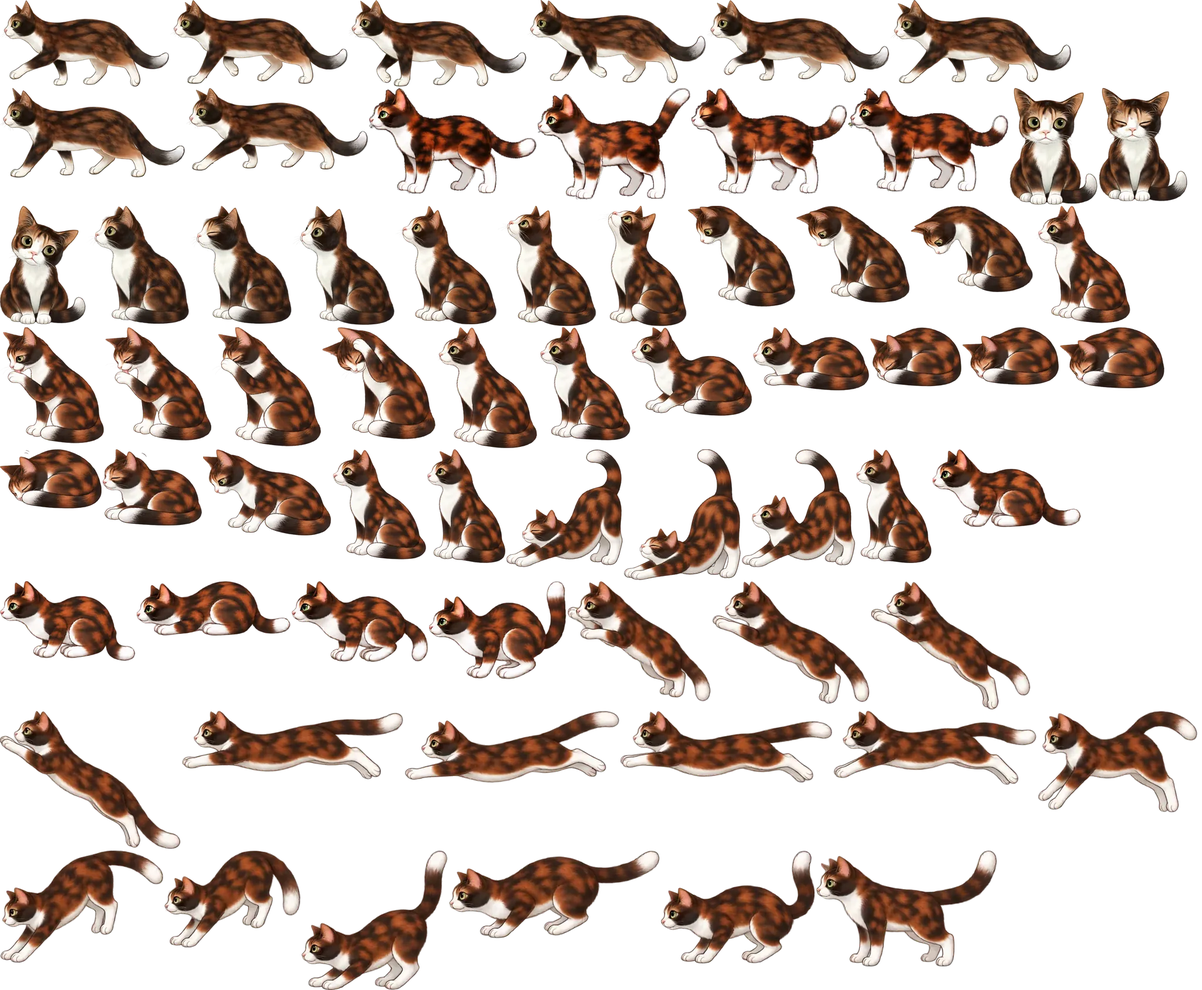
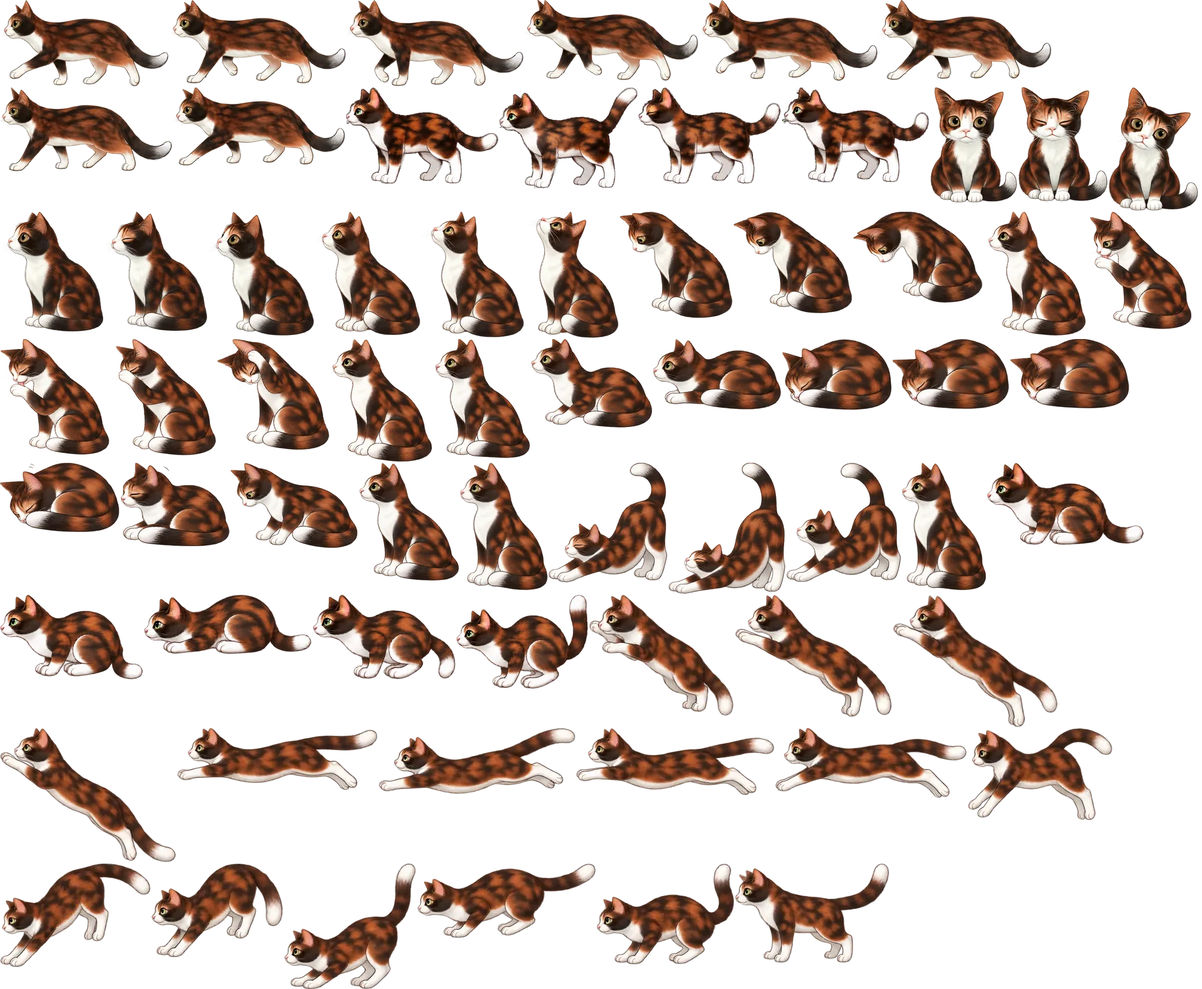
Dungeon v2.22.0
Plot colours for any colour, garden map, plot boxes lean and wiggle, Recently planted fills the gap, minified release, teddy redrawn, Booster bigger/slower/one colour.

diff --git a/assets/js/site.js b/assets/js/site.js
@@ -38,6 +38,11 @@
         fig.style.setProperty('--tilt', (t * imgMax).toFixed(2) + 'deg');
       });
     });
+    // The boxes inside a plot (the lists, the Library): each leans its own fixed way, a little less than a card
+    root.querySelectorAll('.plot-page').forEach(function (el) {
+      var t = (hash('box:' + (el.getAttribute('data-slug') || '') + (el.querySelector('.plot-page-title') || el).textContent.trim()) % 2001) / 1000 - 1;
+      el.style.setProperty('--pt', (maxTilt > 0 ? t * Math.min(maxTilt, 5) * 0.6 : 0).toFixed(2) + 'deg');
+    });
     root.querySelectorAll('.card[data-key], .post-panel[data-key]').forEach(function (el) {
       var h = hash(el.getAttribute('data-key') || '');
       // A colour tag on the post (e.g. #mint) fixes the colour; otherwise it comes from the slug.
@@ -3038,37 +3043,27 @@
   // and opens a small card with its title and a line of it. The card goes when you move off the node; the node opens it.
   // (On a phone: the first tap shows the card, the next tap opens the link.) No instructions: it is a map.
   function smallImg(u) { return u && /\/content\/images\//.test(u) && !/\/size\//.test(u) ? u.replace('/content/images/', '/content/images/size/w200/') : (u || ''); }
-  // short vines, leaves and flowers round a node of radius r at (x, y)
-  function bloomAround(x, y, r, seedKey) {
-    var out = '', k = hashOf(seedKey);
-    for (var i = 0; i < 3; i++) {
-      var a0 = (k % 628) / 100 + i * 2.09, a1 = a0 + 1.5, p0 = [x + Math.cos(a0) * (r + 1), y + Math.sin(a0) * (r + 1)], p1 = [x + Math.cos(a1) * (r + 9), y + Math.sin(a1) * (r + 9)];
-      var w = wildVine(p0[0], p0[1], p1[0], p1[1], seedKey + i, 0.9, 2), d = (i * 0.1).toFixed(2) + 's';
-      out += '<path class="pm-vn" pathLength="1" style="animation-delay:' + d + '" d="' + w.d + '"/><g class="pm-lv" style="animation-delay:' + (0.3 + i * 0.1).toFixed(2) + 's">' + w.leaves + w.curl + '</g>' +
-        '<g class="pm-fl" style="animation-delay:' + (0.5 + i * 0.1).toFixed(2) + 's">' + gflower(p1[0], p1[1], 4.6 + (k >> i & 1), FLOWERS[(k + i * 2) % FLOWERS.length]) + '</g>';
-    }
-    return '<g class="pm-bloom">' + out + '</g>';
-  }
   function postMap(slot, self, groups, L) {
     var nb = [], seen = {};
     groups.forEach(function (g) { g.items.forEach(function (x) { if (x.u && !seen[x.u] && nb.length < 12) { seen[x.u] = 1; nb.push({ t: x.t, u: x.u, g: x.g || 'seedling', i: x.i, x: x.x, kind: g.kind, label: g.label }); } }); });
     if (!nb.length) return;
     var stageOf = function (g) { return (L.stages && L.stages[g]) || g; };
-    var W = Math.max(300, Math.min(640, slot.clientWidth || 560)), H = nb.length <= 2 ? 190 : nb.length <= 5 ? 220 : 270, cx = W / 2, cy = H / 2, rx = W / 2 - 40, ry = H / 2 - 34, s = '', dots = '', defs = '';
+    var pic0 = !!self.im, CR = pic0 ? 19 : 14, W = Math.max(300, Math.min(640, slot.clientWidth || 560)), H = nb.length <= 2 ? 190 : nb.length <= 5 ? 220 : 270, cx = W / 2, cy = H / 2, rx = W / 2 - 40, ry = H / 2 - 34, s = '', dots = '', defs = '';
     nb.forEach(function (n, i) {
       var a = -Math.PI / 2 + i * 2 * Math.PI / nb.length, x = cx + Math.cos(a) * rx, y = cy + Math.sin(a) * ry, v = wildVine(cx, cy, x, y, 'pm' + self.s + '>' + n.u, 1, n.kind === 'rel' ? 0 : 2), pic = !!n.i, R = pic ? 17 : (n.g === 'post' ? 8 : 9), sq = n.g === 'post';
-      s += n.kind === 'rel' ? '<path class="lm-rel" d="' + v.d + '"/>' : '<g class="lm-vine"><path d="' + v.d + '"/>' + v.leaves + v.curl + '</g>';
+      var dist = Math.sqrt((x - cx) * (x - cx) + (y - cy) * (y - cy)) || 1;
+      // the whole connection is dotted; a short solid vine grows from just outside the centre along the same curve
+      s += '<path class="lm-rel" d="' + v.d + '"/><path class="pm-sv" pathLength="1" style="--f0:' + ((CR + 3) / dist).toFixed(3) + ';--l:0.2;animation-delay:' + (i * 0.06).toFixed(2) + 's" d="' + v.d + '"/>';
       var shape = function (cls, extra) { return sq ? '<rect class="' + cls + '" ' + extra + ' x="' + (x - R).toFixed(1) + '" y="' + (y - R).toFixed(1) + '" width="' + R * 2 + '" height="' + R * 2 + '" rx="' + (pic ? 7 : 3) + '"/>' : '<circle class="' + cls + '" ' + extra + ' cx="' + x.toFixed(1) + '" cy="' + y.toFixed(1) + '" r="' + R + '"/>'; };
       if (pic) defs += '<clipPath id="pmc' + i + '">' + (sq ? '<rect x="' + (x - R).toFixed(1) + '" y="' + (y - R).toFixed(1) + '" width="' + R * 2 + '" height="' + R * 2 + '" rx="7"/>' : '<circle cx="' + x.toFixed(1) + '" cy="' + y.toFixed(1) + '" r="' + R + '"/>') + '</clipPath>';
       dots += '<a class="pm-dot" href="' + esc(n.u) + '" data-i="' + i + '" aria-label="' + esc(n.t + ' (' + n.label + ', ' + stageOf(n.g) + ')') + '"><circle class="pm-hit" cx="' + x.toFixed(1) + '" cy="' + y.toFixed(1) + '" r="' + (R + 9) + '"/>' +
-        shape('pm-v', 'data-g="' + esc(n.g) + '"') + (pic ? '<image href="' + esc(smallImg(n.i)) + '" x="' + (x - R).toFixed(1) + '" y="' + (y - R).toFixed(1) + '" width="' + R * 2 + '" height="' + R * 2 + '" preserveAspectRatio="xMidYMid slice" clip-path="url(#pmc' + i + ')"/>' + shape('pm-edge', 'data-g="' + esc(n.g) + '"') : '') +
-        bloomAround(x, y, R, n.u) + '</a>';
+        shape('pm-v', 'data-g="' + esc(n.g) + '"') + (pic ? '<image href="' + esc(smallImg(n.i)) + '" x="' + (x - R).toFixed(1) + '" y="' + (y - R).toFixed(1) + '" width="' + R * 2 + '" height="' + R * 2 + '" preserveAspectRatio="xMidYMid slice" clip-path="url(#pmc' + i + ')"/>' + shape('pm-edge', 'data-g="' + esc(n.g) + '"') : '') + '</a>';
     });
-    dots += '<circle class="pm-ring" cx="' + cx + '" cy="' + cy + '" r="20"/><circle class="pm-v pm-self" data-g="' + esc(self.g || 'post') + '" cx="' + cx + '" cy="' + cy + '" r="14"><title>' + esc(L.thisPost || 'This post') + '</title></circle>';
-    var present = {}; nb.forEach(function (n) { present[n.g] = 1; }); present[self.g || 'post'] = 1;
-    var key = ['seedling', 'growing', 'evergreen', 'post'].filter(function (g) { return present[g]; }).map(function (g) { return '<span class="pm-key-i"><i class="pm-key-dot" data-g="' + g + '"></i>' + esc(stageOf(g)) + '</span>'; }).join('');
+    var selfSq = (self.g || 'post') === 'post', selfPath = function (r, extra) { return selfSq ? '<rect ' + extra + ' x="' + (cx - r) + '" y="' + (cy - r) + '" width="' + r * 2 + '" height="' + r * 2 + '" rx="' + (r > 14 ? 7 : 3) + '"/>' : '<circle ' + extra + ' cx="' + cx + '" cy="' + cy + '" r="' + r + '"/>'; };
+    if (pic0) defs += '<clipPath id="pmcs">' + selfPath(CR, '') + '</clipPath>';
+    dots += '<circle class="pm-ring" cx="' + cx + '" cy="' + cy + '" r="' + (CR + 6) + '"/>' + (pic0 ? selfPath(CR, 'class="pm-v pm-self" data-g="' + esc(self.g || 'post') + '"') + '<image href="' + esc(smallImg(self.im)) + '" x="' + (cx - CR) + '" y="' + (cy - CR) + '" width="' + CR * 2 + '" height="' + CR * 2 + '" preserveAspectRatio="xMidYMid slice" clip-path="url(#pmcs)"/>' + selfPath(CR, 'class="pm-edge" data-g="' + esc(self.g || 'post') + '"') : '<circle class="pm-v pm-self" data-g="' + esc(self.g || 'post') + '" cx="' + cx + '" cy="' + cy + '" r="14"/>');
     slot.innerHTML = '<div class="pm"><svg viewBox="0 0 ' + W + ' ' + H + '" role="group" aria-label="' + esc(L.map || '') + '"><defs>' + defs + '</defs>' + s + dots + '</svg>' +
-      '<div class="pm-card" aria-hidden="true" hidden><span class="pm-card-k"></span><span class="pm-card-t"></span><span class="pm-card-x"></span></div></div><p class="pm-key">' + key + '</p>';
+      '<div class="pm-card" aria-hidden="true" hidden><span class="pm-card-k"></span><span class="pm-card-t"></span><span class="pm-card-x"></span></div></div>';
     var wrap = slot.querySelector('.pm'), svg = wrap.querySelector('svg'), card = wrap.querySelector('.pm-card'), els = [].slice.call(wrap.querySelectorAll('.pm-dot')), cur = -1, touch = false;
     var k = card.querySelector('.pm-card-k'), t = card.querySelector('.pm-card-t'), x = card.querySelector('.pm-card-x');
     var close = function () { cur = -1; card.hidden = true; els.forEach(function (e) { e.classList.remove('is-on'); }); };
@@ -3078,8 +3073,17 @@
       var n = nb[i]; cur = i; k.textContent = n.label + ' · ' + stageOf(n.g); t.textContent = n.t;
       var ex = String(n.x || '').trim(); x.textContent = ex.length > 120 ? ex.slice(0, 119).replace(/\s+\S*$/, '') + '…' : ex;
       card.hidden = false;
-      var B = wrap.getBoundingClientRect(), D = els[i].querySelector('.pm-v').getBoundingClientRect(), up = D.top + D.height / 2 - B.top > B.height / 2, left = D.left + D.width / 2 - B.left > B.width / 2;
-      card.classList.toggle('is-top', up); card.classList.toggle('is-left', left); // the half of the map the node is not in
+      // beside its own node, on the side facing the centre, and kept inside the map
+      var B = wrap.getBoundingClientRect(), D = els[i].querySelector('.pm-v').getBoundingClientRect(), cw = card.offsetWidth, ch = card.offsetHeight, G = 10,
+        mx = D.left + D.width / 2 - B.left, my = D.top + D.height / 2 - B.top, onLeft = mx < B.width / 2, below = my > B.height / 2, px, py;
+      var roomX = onLeft ? B.width - (D.right - B.left) - G : D.left - B.left - G;
+      if (roomX >= cw) { px = onLeft ? D.right - B.left + G : D.left - B.left - G - cw; py = my - ch / 2; }
+      else { px = mx - cw / 2; py = below ? D.top - B.top - G - ch : D.bottom - B.top + G; }
+      px = Math.max(4, Math.min(B.width - cw - 4, px)); py = Math.max(4, Math.min(B.height - ch - 4, py));
+      var sc = B.width / W, hx = cx * sc, hy = cy * sc, hr = (CR + 8) * sc;
+      // never over the centre picture: if it would be, it hangs below its own node instead (it may reach past the map's lower edge)
+      if (px < hx + hr && px + cw > hx - hr && py < hy + hr && py + ch > hy - hr) { py = Math.max(hy + hr + 4, D.bottom - B.top + G); px = Math.max(4, Math.min(B.width - cw - 4, onLeft ? D.left - B.left : D.right - B.left - cw)); }
+      card.style.left = px.toFixed(0) + 'px'; card.style.top = py.toFixed(0) + 'px';
     };
     els.forEach(function (a, i) {
       a.addEventListener('pointerenter', function (e) { if (e.pointerType === 'mouse') open(i); });
@@ -3600,13 +3604,22 @@
     if (!grid || !window.matchMedia || !window.ResizeObserver) return;
     var cards = [].filter.call(grid.children, function (c) { return c.classList && c.classList.contains('plot'); });
     if (cards.length < 3) return;
+    // "Recently planted" counts as one more item on a wide screen, so it fills the gap under the shorter plot. It is moved
+    // into the grid only while the screen is wide; below that it goes back to where the page puts it, before the /garden card.
+    var tended = document.querySelector('.plots-tended'), home = tended && tended.parentNode, homeNext = tended && tended.nextSibling;
     var wide = window.matchMedia('(min-width: 901px)'), UNIT = 8, queued = 0;
     function lay() {
       queued = 0;
-      if (!wide.matches) { grid.classList.remove('is-packed'); cards.forEach(function (c) { c.style.gridColumn = ''; c.style.gridRow = ''; }); return; }
+      var items = cards.slice();
+      if (!wide.matches) {
+        grid.classList.remove('is-packed'); items.concat(tended ? [tended] : []).forEach(function (c) { c.style.gridColumn = ''; c.style.gridRow = ''; });
+        if (tended && tended.parentNode === grid) home.insertBefore(tended, homeNext && homeNext.parentNode === home ? homeNext : null);
+        return;
+      }
+      if (tended) { if (tended.parentNode !== grid) grid.appendChild(tended); items.push(tended); }
       grid.classList.add('is-packed');
       var gap = (parseFloat(getComputedStyle(document.documentElement).fontSize) || 16) * 2.25, used = [0, 0];
-      cards.forEach(function (c) {
+      items.forEach(function (c) {
         var col = used[0] <= used[1] ? 0 : 1, column = String(col + 1);
         if (c.style.gridColumn !== column) c.style.gridColumn = column;
         var span = Math.max(1, Math.ceil((c.offsetHeight + gap) / UNIT)), row = (used[col] + 1) + ' / span ' + span;
@@ -3615,7 +3628,7 @@
       });
     }
     var ask = function () { if (!queued) queued = window.requestAnimationFrame(lay); };
-    var watcher = new ResizeObserver(ask); cards.forEach(function (c) { watcher.observe(c); });
+    var watcher = new ResizeObserver(ask); cards.concat(tended ? [tended] : []).forEach(function (c) { watcher.observe(c); });
     if (wide.addEventListener) wide.addEventListener('change', ask);
     lay();
   }

diff --git a/assets/css/screen.css b/assets/css/screen.css
@@ -169,15 +169,15 @@ main { min-height: 100vh; min-height: 100svh; }
 .card[data-hue="cobalt"], .post-panel[data-hue="cobalt"] { --card: #2349c9; --card-hi: #2b52d8; }
 .card[data-hue="emerald"], .post-panel[data-hue="emerald"] { --card: #0b7d52; --card-hi: #0b8455; }
 .card[data-hue="ink"], .post-panel[data-hue="ink"] { --card: #2a2e37; --card-hi: #353a45; }
-:is(.card, .post-panel):is([data-hue="red"], [data-hue="cobalt"], [data-hue="emerald"], [data-hue="ink"]) {
+:is(.card, .post-panel):is([data-hue="red"], [data-hue="cobalt"], [data-hue="emerald"], [data-hue="ink"], [data-on="dark"]) {
     --on-card: #ffffff;
     --on-card-soft: rgba(255, 255, 255, 0.9);
     --on-card-meta: rgba(255, 255, 255, 0.82);
     --on-card-rule: rgba(255, 255, 255, 0.3);
 }
-:is(.card, .post-panel):is([data-hue="red"], [data-hue="cobalt"], [data-hue="emerald"], [data-hue="ink"]) .card-line { background: rgba(255, 255, 255, 0.35); }
-:is(.card, .post-panel):is([data-hue="red"], [data-hue="cobalt"], [data-hue="emerald"], [data-hue="ink"]) :is(code, pre) { background: rgba(255, 255, 255, 0.14); color: #fff; }
-:is(.card, .post-panel):is([data-hue="red"], [data-hue="cobalt"], [data-hue="emerald"], [data-hue="ink"]) a { text-decoration-color: rgba(255, 255, 255, 0.7); }
+:is(.card, .post-panel):is([data-hue="red"], [data-hue="cobalt"], [data-hue="emerald"], [data-hue="ink"], [data-on="dark"]) .card-line { background: rgba(255, 255, 255, 0.35); }
+:is(.card, .post-panel):is([data-hue="red"], [data-hue="cobalt"], [data-hue="emerald"], [data-hue="ink"], [data-on="dark"]) :is(code, pre) { background: rgba(255, 255, 255, 0.14); color: #fff; }
+:is(.card, .post-panel):is([data-hue="red"], [data-hue="cobalt"], [data-hue="emerald"], [data-hue="ink"], [data-on="dark"]) a { text-decoration-color: rgba(255, 255, 255, 0.7); }
 /* An ink card would disappear on the dark page: give it a faint outline there */
 html[data-scheme="dark"] .card[data-hue="ink"] { box-shadow: 0 0 0 1px rgba(255, 255, 255, 0.14), 0 12px 26px -20px rgba(0, 0, 0, 0.8); }
 @media (prefers-color-scheme: dark) {
@@ -1098,7 +1098,7 @@ body.has-everything .colophon-secondary { display: none; }
    seconds. Tapping the button again lists the latest names. Ink is red, or white on bold cards. */
 .stamp { --ink: #c42b3c; position: relative; display: inline-flex; }
 .card[data-hue="red"] .stamp, .card[data-hue="tangerine"] .stamp, .card[data-hue="sunflower"] .stamp,
-.card[data-hue="cobalt"] .stamp, .card[data-hue="emerald"] .stamp, .card[data-hue="ink"] .stamp { --ink: rgba(255, 255, 255, 0.92); }
+.card[data-hue="cobalt"] .stamp, .card[data-hue="emerald"] .stamp, .card[data-hue="ink"] .stamp, .card[data-on="dark"] .stamp { --ink: rgba(255, 255, 255, 0.92); }
 .stamp[hidden] { display: none; }
 .stamp-btn {
     display: inline-flex; align-items: center; justify-content: center; gap: 0.4rem; height: 2.4rem; min-width: 2.4rem; padding: 0 0.8rem;
@@ -1950,35 +1950,28 @@ html[data-scheme="dark"] .post-panel.is-garden { background-image: linear-gradie
 .pm-dot { cursor: pointer; outline: none; }
 .pm-hit { fill: transparent; }
 .pm-v { stroke: var(--ink); stroke-opacity: 0.6; stroke-width: 1.4; fill: #cfe86a; }
-.pm-v[data-g="growing"], .pm-key-dot[data-g="growing"] { fill: #4fc08a; background: #4fc08a; }
-.pm-v[data-g="evergreen"], .pm-key-dot[data-g="evergreen"] { fill: #1f6b4f; background: #1f6b4f; }
-.pm-v[data-g="post"], .pm-key-dot[data-g="post"] { fill: #fffdf7; background: #fffdf7; }
-.pm-key-dot[data-g="seedling"] { background: #cfe86a; }
+.pm-v[data-g="growing"] { fill: #4fc08a; }
+.pm-v[data-g="evergreen"] { fill: #1f6b4f; }
+.pm-v[data-g="post"] { fill: #fffdf7; }
 .pm-dot:hover .pm-v, .pm-dot.is-on .pm-v, .pm-dot:focus-visible .pm-v { stroke: #c42b3c; stroke-opacity: 1; stroke-width: 2.4; }
 .pm-self { stroke-opacity: 0.85; stroke-width: 2; }
 .pm-ring { fill: none; stroke: var(--ink); stroke-opacity: 0.35; stroke-width: 1.2; stroke-dasharray: 2 3; }
 .pm-edge { fill: none; stroke: rgba(23, 25, 30, 0.55); stroke-width: 2; }
 .pm-edge[data-g="seedling"] { stroke: #cfe86a; stroke-width: 3; } .pm-edge[data-g="growing"] { stroke: #4fc08a; stroke-width: 3; } .pm-edge[data-g="evergreen"] { stroke: #1f6b4f; stroke-width: 3; }
 .pm-dot:hover .pm-edge, .pm-dot.is-on .pm-edge, .pm-dot:focus-visible .pm-edge { stroke: #c42b3c; }
-.pm-bloom { display: none; pointer-events: none; }
-.pm-dot.is-on .pm-bloom { display: inline; }
+.pm-sv { fill: none; stroke: #3f8a3a; stroke-width: 2.2; stroke-linecap: round; stroke-dasharray: 0 var(--f0) var(--l) 2; animation: pm-sv 0.8s ease-out backwards; pointer-events: none; }
+@keyframes pm-sv { from { stroke-dasharray: 0 var(--f0) 0 2; } }
 .pm-vn { fill: none; stroke: #3f8a3a; stroke-width: 1.8; stroke-linecap: round; stroke-dasharray: 1; stroke-dashoffset: 1; animation: pm-grow 0.7s ease-out forwards; }
 .pm-lv, .pm-fl { transform-box: fill-box; transform-origin: center; animation: pm-pop 0.45s cubic-bezier(.3, 1.5, .5, 1) backwards; }
 @keyframes pm-grow { to { stroke-dashoffset: 0; } }
 @keyframes pm-pop { from { transform: scale(0); opacity: 0; } }
-@media (prefers-reduced-motion: reduce) { .pm-vn, .pm-lv, .pm-fl { animation: none; } .pm-vn { stroke-dashoffset: 0; } }
+@media (prefers-reduced-motion: reduce) { .pm-vn, .pm-lv, .pm-fl, .pm-sv { animation: none; } .pm-vn { stroke-dashoffset: 0; } }
 /* The card is fixed paper and ink, so it reads the same on any panel in light or dark; it is only a label, so it takes no pointer */
-.pm-card { position: absolute; z-index: 5; bottom: 0.4rem; right: 0.4rem; display: flex; flex-direction: column; gap: 0.25rem; box-sizing: border-box; width: min(19rem, calc(100% - 0.8rem)); padding: 0.7rem 0.85rem; border-radius: 10px; background: #fffdf7; color: #17191e; box-shadow: 0 10px 24px -10px rgba(12, 13, 16, 0.55), inset 0 0 0 1px rgba(23, 25, 30, 0.14); pointer-events: none; }
-.pm-card.is-top { bottom: auto; top: 0.4rem; }
-.pm-card.is-left { right: auto; left: 0.4rem; }
+.pm-card { position: absolute; z-index: 5; top: 0; left: 0; display: flex; flex-direction: column; gap: 0.25rem; box-sizing: border-box; width: min(17rem, calc(100% - 0.8rem)); padding: 0.7rem 0.85rem; border-radius: 10px; background: #fffdf7; color: #17191e; box-shadow: 0 10px 24px -10px rgba(12, 13, 16, 0.55), inset 0 0 0 1px rgba(23, 25, 30, 0.14); pointer-events: none; }
 .pm-card[hidden] { display: none; }
 .pm-card-k { font: 0.66rem/1.2 var(--mono); letter-spacing: 0.08em; text-transform: uppercase; color: #5e636c; }
 .pm-card-t { font-weight: 600; line-height: 1.25; }
 .pm-card-x { font-size: 0.8rem; line-height: 1.35; color: #4a4e55; }
-.pm-key { display: flex; flex-wrap: wrap; align-items: center; gap: 0.3rem 1rem; margin: 0.5rem 0 0.9rem; font: 0.72rem/1.3 var(--mono); color: var(--graphite); }
-.pm-key-i { display: inline-flex; align-items: center; gap: 0.4rem; }
-.pm-key-dot { display: inline-block; width: 0.7rem; height: 0.7rem; border-radius: 50%; box-shadow: inset 0 0 0 1.3px color-mix(in srgb, var(--ink) 60%, transparent); }
-.pm-key-dot[data-g="post"] { border-radius: 2px; }
 .pm-list > summary { cursor: pointer; font: 0.75rem/1.2 var(--mono); color: var(--graphite); padding: 0.4rem 0; }
 .pm-list[open] > summary { margin-bottom: 0.7rem; }
 
@@ -2005,7 +1998,7 @@ html[data-scheme="dark"] .post-panel.is-garden { background-image: linear-gradie
 .rated--small .rated-stars { font-size: 0.8rem; }
 .rated--small .rated-num { font-size: 0.6rem; }
 /* pastel cards and panels carry dark ink in light and dark mode alike; on the dark and red ones the stamp turns white */
-:is(.card, .post-panel):is([data-hue="red"], [data-hue="cobalt"], [data-hue="emerald"], [data-hue="ink"]) .rated { --stamp: rgba(255, 255, 255, 0.92); }
+:is(.card, .post-panel):is([data-hue="red"], [data-hue="cobalt"], [data-hue="emerald"], [data-hue="ink"], [data-on="dark"]) .rated { --stamp: rgba(255, 255, 255, 0.92); }
 @media (max-width: 560px) { .panel-head > .rated { float: none; margin: 0 0 0.9rem; } }
 
 .rate { margin-top: 1.6rem; padding: 1.1rem 1.2rem 1rem; border-radius: 12px; color: var(--on-card, var(--ink)); background: color-mix(in srgb, var(--on-card, var(--ink)) 7%, transparent); }
@@ -2020,7 +2013,7 @@ html[data-scheme="dark"] .post-panel.is-garden { background-image: linear-gradie
 .rate-fill { position: absolute; left: 0; top: 0.2rem; width: calc(var(--v) * 20%); overflow: hidden; white-space: nowrap; color: #e8a33a; pointer-events: none; }
 .rate-fill::before { content: "\2605\2605\2605\2605\2605"; }
 .rate-stars:focus-visible { outline: 2px solid var(--on-card, var(--ink)); outline-offset: 4px; }
-.post-panel:is([data-hue="red"], [data-hue="tangerine"], [data-hue="sunflower"], [data-hue="cobalt"], [data-hue="emerald"], [data-hue="ink"]) .rate-fill { color: var(--on-card); } /* amber would vanish on the bold colours */
+.post-panel:is([data-hue="red"], [data-hue="tangerine"], [data-hue="sunflower"], [data-hue="cobalt"], [data-hue="emerald"], [data-hue="ink"], [data-on="dark"]) .rate-fill { color: var(--on-card); } /* amber would vanish on the bold colours */
 .rate.is-busy .rate-stars { opacity: 0.45; cursor: progress; }
 .rate-msg { margin: 0; font: 0.8rem/1.4 var(--mono); color: inherit; }
 .rate-msg.is-error { font-weight: 600; }
@@ -2143,6 +2136,7 @@ body[data-tilt="0"] .plots-hero .statement-text { transform: none; }
 }
 /* Stacked by empty space (set by the script on wide screens): two columns, each plot placed under the shorter one */
 .plots-grid.is-packed { grid-template-columns: minmax(0, 7fr) minmax(0, 5fr); grid-auto-rows: 8px; row-gap: 0; }
+.plots-grid.is-packed > .plots-tended { padding: 0 0.5rem; }
 .plot { grid-column: span 6; padding: 1.2rem 1.3rem 1.1rem; gap: 0.7rem; transform: rotate(calc(var(--tilt) * 0.35)); }
 /* Hover: the plot straightens and lifts like every other card; its etching darkens and drifts closer */
 .plot { overflow: hidden; }
@@ -2257,6 +2251,15 @@ body[data-tilt="0"] .plots-hero .statement-text { transform: none; }
 .plot-page.is-watchlist .plot-page-line:empty { display: none; }
 .plot-page.is-watchlist { flex-wrap: nowrap; align-items: center; }
 .plot-page.is-watchlist .plot-page-text { flex: 1 1 auto; }
+.plot-page.is-watchlist { transform: rotate(var(--pt, 0deg)); }
+@keyframes plot-box-wiggle {
+    0% { transform: rotate(var(--pt, 0deg)); } 28% { transform: rotate(calc(var(--pt, 0deg) + 1.6deg)); }
+    52% { transform: rotate(calc(var(--pt, 0deg) - 1deg)); } 76% { transform: rotate(calc(var(--pt, 0deg) + 0.5deg)); }
+    100% { transform: rotate(var(--pt, 0deg)); } }
+/* Mouse only, and not while the picture inside is doing its own wiggle */
+@media (hover: hover) and (pointer: fine) and (prefers-reduced-motion: no-preference) {
+    .plot-page.is-watchlist:hover:not(:has(.plot-page-shot:hover)) { animation: plot-box-wiggle 460ms ease-out; }
+}
 /* The featured item: its picture leans, overlaps the box's top edge, and has its own slight zoom and wiggle when pointed at */
 .plot-pages:has(.plot-page-shot) { margin-top: 1.6rem; }
 .plot-page-feature { flex: none; display: flex; flex-direction: column; align-items: center; gap: 0.5rem; }

diff --git a/assets/js/library-cat.js b/assets/js/library-cat.js
@@ -63,12 +63,12 @@
       else if (me.loop) { if (me.ti >= me.to + 1) me.ti = me.from + (me.ti - me.to - 1); }
       else if (me.ti >= me.to) { me.ti = me.to; me.playing = false; var r = me.resolve; me.resolve = null; if (r) r(); }
     }
-    if (me.xf) { me.xf.a -= dt / .18; if (me.xf.a <= 0) me.xf = null; }
+    if (me.xf) { me.xf.a -= dt / .45; if (me.xf.a <= 0) me.xf = null; }
     me.draw();
   };
   Cat.prototype.draw = function () {
     var me = this, c = me.ctx, n = me.m.clips[me.clip].length, i0 = clamp(Math.floor(me.ti), 0, n - 1), b = 0, i1 = i0;
-    if (me.playing) { i1 = i0 + 1; if (me.loop && !me.ping) { if (i1 > me.to) i1 = me.from; } else if (i1 > me.to) i1 = i0; b = i1 === i0 ? 0 : smooth((me.ti - Math.floor(me.ti) - .55) / .45); }
+    if (me.playing) { i1 = i0 + 1; if (me.loop && !me.ping) { if (i1 > me.to) i1 = me.from; } else if (i1 > me.to) i1 = i0; b = i1 === i0 ? 0 : smooth((me.ti - Math.floor(me.ti) - .15) / .85); }
     c.setTransform(1, 0, 0, 1, 0, 0); c.clearRect(0, 0, me.canvas.width, me.canvas.height);
     function put(f, a) { if (a <= .003) return; c.save(); c.globalAlpha = a * me.opacity; c.setTransform(me.res, 0, 0, me.res, 0, 0); c.translate(me.cw / 2, me.ch - 3); if (me.dir > 0) c.scale(-1, 1);
       c.drawImage(me.img, f[0], f[1], f[2], f[3], -f[4] * me.k, -(f[5] + 1) * me.k, f[2] * me.k, f[3] * me.k); c.restore(); }
@@ -116,7 +116,7 @@
       P = []; spot = null; phone = typeof matchMedia === 'function' && matchMedia('(max-width: 899px)').matches;
       shelves.forEach(function (b) {
         var t = JSON.parse(b.dataset.top), r = b.getBoundingClientRect(), iw = +b.dataset.iw; if (!iw || !r.width) return;
-        ppu = r.width / iw; cat.k = ppu * .63; len = 300 * cat.k;
+        ppu = r.width / iw; cat.k = ppu * .85; len = 300 * cat.k;
         var ox = r.left - hr.left, oy = r.top - hr.top, m = .46 * len, x0 = ox + t.x0 * r.width + m, x1 = ox + t.x1 * r.width - m;
         if (x1 < x0) x0 = x1 = (x0 + x1) / 2;
         P.push({ shelf: +b.dataset.shelf, b: b, x0: x0, x1: x1, y: oy + t.y * r.height + 5 * ppu });
@@ -134,27 +134,27 @@
     async function holdBlink(sec, clip, base, blink) { cat.hold(clip, base); var rem = sec; while (rem > 0) { var s = Math.min(rem, rr(1.6, 3.6)); await W(s); rem -= s; if (rem > .3) { cat.hold(clip, blink); await W(.15); cat.hold(clip, base); } } }
     async function sit(s) { cat.hold('sit_side', 0); await holdBlink(s, 'sit_side', 0, 1); }
     async function look(s) { cat.hold('sit_front', 0); await holdBlink(s, 'sit_front', 0, 1); }
-    async function lookUp(s) { cat.hold('sit_side', 0); await W(.2); await P_(cat.play('look_up', { fps: 5 })); await W(s); await P_(cat.play('look_up', { fps: 5, from: 0, to: 2, at: 2 })); cat.hold('sit_side', 0); }
-    async function groom(times) { cat.hold('groom', 0); await W(.5); for (var i = 0; i < times; i++) await P_(cat.play('groom', { fps: 3.2, from: 0, to: 5 })); }
+    async function lookUp(s) { cat.hold('sit_side', 0); await W(.2); await P_(cat.play('look_up', { fps: 3.5 })); await W(s); await P_(cat.play('look_up', { fps: 3.5, from: 0, to: 2, at: 2 })); cat.hold('sit_side', 0); }
+    async function groom(times) { cat.hold('groom', 0); await W(.5); for (var i = 0; i < times; i++) await P_(cat.play('groom', { fps: 2.4, from: 0, to: 5 })); }
     async function stretch() { lock++; try { await stretch_(); } finally { lock--; } }
-    async function stretch_() { cat.hold('stretch', 0); await W(.35); await P_(cat.play('stretch', { fps: 4, from: 0, to: 2 })); await W(rr(.9, 1.5)); await P_(cat.play('stretch', { fps: 4, from: 2, to: 4 })); cat.hold('sit_side', 0); }
-    function idle() { cat.play('idle', { fps: 2.6, loop: true }); }
-    async function wake() { await P_(cat.play('wake', { fps: 2.6 })); cat.hold('sit_side', 0); await W(.6); await stretch(); }
-    async function sleepFor(s) { await P_(cat.play('lie', { fps: 2.8 })); cat.play('sleep', { fps: 1.5, ping: true }); await W(s); }
+    async function stretch_() { cat.hold('stretch', 0); await W(.35); await P_(cat.play('stretch', { fps: 3, from: 0, to: 2 })); await W(rr(.9, 1.5)); await P_(cat.play('stretch', { fps: 3, from: 2, to: 4 })); cat.hold('sit_side', 0); }
+    function idle() { cat.play('idle', { fps: 1.8, loop: true }); }
+    async function wake() { await P_(cat.play('wake', { fps: 2 })); cat.hold('sit_side', 0); await W(.6); await stretch(); }
+    async function sleepFor(s) { await P_(cat.play('lie', { fps: 2 })); cat.play('sleep', { fps: 1.5, ping: true }); await W(s); }
 
     /* walking: her speed comes from the frames, so her paws stay on the board */
-    function walkSpeed() { return walkStep * (cat.walkFps || 9) * cat.k; }
-    function A_walk(x) { return new Promise(function (res, rej) { pend.push(rej); cat.tx = x; cat.walkFps = 9; cat.play('walk', { fps: cat.walkFps, loop: true }); cat.arrive = function () { cat.hold('idle', 0); res(); }; }); }
+    function walkSpeed() { return walkStep * (cat.walkFps || 5.5) * cat.k; }
+    function A_walk(x) { return new Promise(function (res, rej) { pend.push(rej); cat.tx = x; cat.walkFps = 5.5; cat.play('walk', { fps: cat.walkFps, loop: true }); cat.arrive = function () { cat.hold('idle', 0); res(); }; }); }
     async function wander() { var p = P[cp]; await A_walk(rr(p.x0, p.x1)); fxNow(); }
     /* to the next bookcase along: walk to the edge, jump to the near end of the next top */
     async function hop(d) { lock++; try { await hop_(d); } finally { lock--; } }
     async function hop_(d) {
       var p = P[cp], q = P[cp + d]; if (!q) return;
       await A_walk(d > 0 ? p.x1 : p.x0); cat.dir = d; cat.hold('idle', 0); await W(.4);
-      await P_(cat.play('crouch', { fps: 7, to: 2 })); await W(.2); await P_(cat.play('ready', { fps: 4 })); await W(.25);
+      await P_(cat.play('crouch', { fps: 4.5, to: 2 })); await W(.2); await P_(cat.play('ready', { fps: 3 })); await W(.25);
       var x1 = d > 0 ? q.x0 : q.x1, y1 = q.y;
-      await new Promise(function (res, rej) { pend.push(rej); cat.air = { t: 0, T: 1.18, x0: cat.x, y0: cat.y, x1: x1, y1: y1, h: .75 * len + Math.abs(cat.y - y1) * .4, done: res }; });
-      cp += d; fx = d > 0 ? 0 : 1; place(); await P_(cat.play('land', { fps: 8 })); cat.hold('idle', 0); await W(.35);
+      await new Promise(function (res, rej) { pend.push(rej); cat.air = { t: 0, T: 1.6, x0: cat.x, y0: cat.y, x1: x1, y1: y1, h: .75 * len + Math.abs(cat.y - y1) * .4, done: res }; });
+      cp += d; fx = d > 0 ? 0 : 1; place(); await P_(cat.play('land', { fps: 5 })); cat.hold('idle', 0); await W(.35);
     }
     async function nap() { lock++; try { await nap_(); } finally { lock--; } }
     async function nap_() {
@@ -174,16 +174,16 @@
        var p = P[cp], dx = q.x - cat.x, dy = q.y - cat.y, dead = .7 * len;
       if (dy > 18 && Math.abs(dx) < 1.1 * len) { /* below her: to the edge, then look down */
         if (Math.abs(dx) > 8) { cat.dir = dx < 0 ? -1 : 1; await followWalk(); }
-        cat.dir = dx < 0 ? -1 : (dx > 0 ? 1 : cat.dir); cat.hold('sit_side', 0); await W(.3); await P_(cat.play('look_down', { fps: 5 }));
+        cat.dir = dx < 0 ? -1 : (dx > 0 ? 1 : cat.dir); cat.hold('sit_side', 0); await W(.3); await P_(cat.play('look_down', { fps: 3.5 }));
         while (following() && ptLocal().y > cat.y + 18 && Math.abs(ptLocal().x - cat.x) < 1.2 * len) await W(.25);
-        await P_(cat.play('look_down', { fps: 5, from: 0, to: 2, at: 2 })); cat.hold('sit_side', 0); await W(.2); return true; }
+        await P_(cat.play('look_down', { fps: 3.5, from: 0, to: 2, at: 2 })); cat.hold('sit_side', 0); await W(.2); return true; }
       if (dx > dead || dx < -dead) {
         var d = dx > 0 ? 1 : -1, beyond = d > 0 ? q.x > p.x1 + .4 * len : q.x < p.x0 - .4 * len;
         if (beyond && P[cp + d]) { await hop(d); return true; }
         cat.dir = d; await followWalk(); return true; }
       cat.dir = dx < 0 ? -1 : 1; if (dy < -1.1 * len) await lookUp(1.2); else await look(1.4); return true;
     }
-    function followWalk() { return new Promise(function (res, rej) { pend.push(rej); follow = true; var q = ptLocal(), p = P[cp]; cat.tx = clamp(q.x, p.x0, p.x1); cat.walkFps = 9; cat.play('walk', { fps: 9, loop: true }); cat.arrive = function () { follow = false; cat.hold('idle', 0); fxNow(); res(); }; }); }
+    function followWalk() { return new Promise(function (res, rej) { pend.push(rej); follow = true; var q = ptLocal(), p = P[cp]; cat.tx = clamp(q.x, p.x0, p.x1); cat.walkFps = 5.5; cat.play('walk', { fps: 5.5, loop: true }); cat.arrive = function () { follow = false; cat.hold('idle', 0); fxNow(); res(); }; }); }
 
     async function pick() {
       var r = Math.random();
@@ -258,13 +258,13 @@
     atlas().then(function (A) {
       if (signal && signal.aborted) return;
       var wrap = document.createElement('div'); wrap.className = 'lb-cat'; wrap.style.cssText = 'position:absolute;left:0;top:0;width:0;height:0;overflow:visible;pointer-events:none;z-index:520'; plane.appendChild(wrap);
-      var cat = new Cat(wrap, A, { k: .62, res: 2.2 }), bub = Bubble(wrap, 26); out.cat = cat;
+      var cat = new Cat(wrap, A, { k: .84, res: 2.2 }), bub = Bubble(wrap, 26); out.cat = cat;
       cat.dir = -1; cat.hold('sit_front', 0); cat.draw();
       out.go = function () { var q = out.pending; if (!q) return; cat.x = q[0]; cat.y = q[1]; cat.at(); cat.draw(); };
       var busy = false, auto = true, waits = [];
       function W(s) { return new Promise(function (res) { waits.push({ u: cat.t + s, res: res }); }); }
       async function life() { for (;;) { await W(rr(1.6, 3.6)); if (!auto || busy) continue; cat.hold('sit_front', 1); await W(.15); if (!busy) cat.hold('sit_front', 0); if (Math.random() < .25 && !busy) { await W(.5); cat.hold('sit_front', 2); await W(rr(.8, 1.4)); if (!busy) cat.hold('sit_front', 0); } } }
-      function poke() { bub.say('Hi! I am Booster', cat.x, cat.y - cat.box().h - 6); if (REDUCE || busy) return; busy = true; (async function () { cat.hold('stretch', 0); await W(.3); await cat.play('stretch', { fps: 4, from: 0, to: 2 }); await W(1.1); await cat.play('stretch', { fps: 4, from: 2, to: 4 }); cat.hold('sit_front', 0); busy = false; })(); }
+      function poke() { bub.say('Hi! I am Booster', cat.x, cat.y - cat.box().h - 6); if (REDUCE || busy) return; busy = true; (async function () { cat.hold('stretch', 0); await W(.3); await cat.play('stretch', { fps: 3, from: 0, to: 2 }); await W(1.1); await cat.play('stretch', { fps: 3, from: 2, to: 4 }); cat.hold('sit_front', 0); busy = false; })(); }
       hookClick(plane, cat, poke);
       out.go();
       if (REDUCE) return;

diff --git a/assets/js/library.js b/assets/js/library.js
@@ -569,7 +569,39 @@
       let ed='';for(let r=0;r<3;r++)for(let i=0;i<5;i++)ed+=`<circle cx="${f1(22+i*7+r*4)}" cy="${f1(96-i*4.6+r*7)}" r="2" fill="#34C7A5"/>`;
       const half=`<path d="M0 124V86L62 52L88 96L40 124Z" fill="#17140F"/>${ed}<path d="M60 54L86 98M67 50L93 94" stroke="#F6DFAE" stroke-width="1.3"/><g transform="translate(2 12) rotate(-9 104 52)">${roo}</g>`;
       CURIO.boomerang=[330,124,`<defs><clipPath id="lbbm"><path d="${BP}"/></clipPath></defs><path d="${BP}" fill="#D8702A"/><g clip-path="url(#lbbm)" ${NS0}>${bd}${half}<g transform="translate(330 0) scale(-1 1)">${half}</g><circle cx="165" cy="27" r="15" fill="#17140F"/>${ring}<circle cx="165" cy="27" r="6" fill="#2FA98F"/><circle cx="165" cy="27" r="2.5" fill="#F6DFAE"/></g>`];
-      CURIO.teddy=[364,226,`<ellipse cx="282" cy="124" rx="20" ry="40" fill="#BF8128" transform="rotate(-34 282 124)"/><circle cx="302" cy="150" r="15" fill="#E8B878"/><ellipse cx="192" cy="146" rx="112" ry="66" fill="#C98A2E"/><ellipse cx="186" cy="158" rx="66" ry="40" fill="#DBA552" ${NS0}/><ellipse cx="104" cy="170" rx="62" ry="36" fill="#C98A2E" transform="rotate(8 104 170)"/><ellipse cx="282" cy="176" rx="54" ry="32" fill="#C98A2E" transform="rotate(-8 282 176)"/><circle cx="58" cy="176" r="44" fill="#D0943A"/><ellipse cx="58" cy="180" rx="27" ry="30" fill="#F0BC7C"/><ellipse cx="58" cy="186" rx="11" ry="14" fill="#7A4A1E"/><circle cx="318" cy="182" r="38" fill="#D0943A"/><ellipse cx="318" cy="186" rx="23" ry="26" fill="#F0BC7C"/><ellipse cx="318" cy="191" rx="9" ry="12" fill="#7A4A1E"/><ellipse cx="128" cy="108" rx="21" ry="42" fill="#D0943A" transform="rotate(40 128 108)"/><circle cx="104" cy="134" r="15" fill="#F0BC7C"/><path d="M168 104Q224 138 284 122L282 144Q222 160 160 124Z" fill="#F4F1EA"/><path d="M180 116l-5 12M200 126l-4 13M222 132l-2 14M244 134l0 14M266 130l3 13" stroke="#C9BFA8" stroke-width="5"/><path d="M172 112l-22 38l18 8l20 -34z" fill="#F4F1EA"/><path d="M158 140l16 7" stroke="#C9BFA8" stroke-width="5"/><circle cx="182" cy="30" r="22" fill="#C98A2E"/><circle cx="182" cy="32" r="11" fill="#E8B878" ${NS0}/><circle cx="274" cy="28" r="22" fill="#C98A2E"/><circle cx="274" cy="30" r="11" fill="#E8B878" ${NS0}/><circle cx="228" cy="74" r="58" fill="#D0943A"/><ellipse cx="230" cy="96" rx="30" ry="22" fill="#EBC084"/><ellipse cx="230" cy="86" rx="11" ry="7.5" fill="#5A3A1E"/><path d="M230 93v7M219 104q11 7 22 0" fill="none" stroke="#5A3A1E" stroke-width="2.4" stroke-linecap="round"/><circle cx="206" cy="66" r="5.2" fill="#1b130c"/><circle cx="254" cy="66" r="5.2" fill="#1b130c"/><circle cx="207.5" cy="64.5" r="1.6" fill="#fff" ${NS0}/><circle cx="255.5" cy="64.5" r="1.6" fill="#fff" ${NS0}/>`];
+      {const RT=rng(4417),g1=n=>n.toFixed(1);
+        // a fluffy shape: a solid ellipse with a ring of small tufts round its edge, so the outline is soft and shaggy, plus a few short hair strokes
+        const fur=(cx,cy,rx,ry,col,tuft,hair,rot=0,n=0,soft=0)=>{n=n||Math.round((rx+ry)/5.5);let o=`<g transform="rotate(${rot} ${cx} ${cy})"><ellipse cx="${cx}" cy="${cy}" rx="${rx}" ry="${ry}" fill="${col}"/>`;
+          const m=Math.round(n*(soft?1.2:2.6));
+          for(let i=0;i<m;i++){const a=i/m*6.2832+RT()*.1,nx=Math.cos(a),ny=Math.sin(a),px=cx+nx*(rx-3),py=cy+ny*(ry-3),tx=-ny,ty=nx,L=soft?3+RT()*3:4+RT()*5,w=soft?2+RT()*1.2:1.6+RT()*1.4,bd=(RT()-.5)*(soft?4:12),c=RT()<.12&&!soft?tuft:RT()<.1?hair:col,
+              tipx=px+nx*L+tx*bd,tipy=py+ny*L+ty*bd,cxm=px+nx*L*.55+tx*bd*.9,cym=py+ny*L*.55+ty*bd*.9;
+            o+=`<path d="M${g1(px-tx*w)} ${g1(py-ty*w)}Q${g1(cxm-tx*w*.4)} ${g1(cym-ty*w*.4)} ${g1(tipx)} ${g1(tipy)}Q${g1(cxm+tx*w*.7)} ${g1(cym+ty*w*.7)} ${g1(px+tx*w)} ${g1(py+ty*w)}Z" fill="${c}"/>`}
+          for(let i=0;i<Math.round(n*1.1);i++){const a=RT()*6.2832,d=.2+RT()*.7,x=cx+Math.cos(a)*rx*d,y=cy+Math.sin(a)*ry*d,l=7+RT()*8,t=a+1.2+RT()*.7,ex=x+Math.cos(t)*l,ey=y+Math.sin(t)*l;
+            o+=`<path d="M${g1(x)} ${g1(y)}Q${g1((x+ex)/2+Math.sin(t)*3)} ${g1((y+ey)/2-Math.cos(t)*3)} ${g1(ex)} ${g1(ey)}" fill="none" stroke="${RT()<.7?hair:tuft}" stroke-width="1.3" stroke-linecap="round" opacity=".5"/>`}
+          return o+'</g>'};
+        const O1='#E08A2E',O2='#CC7420',O3='#F0A24A',HR='#8F4A12',HL='#F8C070',TAN='#EDC088',PAD='#B87A3E';
+        // a foot seen from the front: its fluffy rim, the tan sole, the big oval heel pad and three toe pads
+        const foot=(x,y,r,rot)=>`<g transform="rotate(${rot} ${x} ${y})">${fur(x,y,r+4,r+2,O1,O3,HR,0,16)}<ellipse cx="${x}" cy="${y}" rx="${r-3}" ry="${r-1}" fill="${TAN}"/><ellipse cx="${x}" cy="${g1(y+r*.28)}" rx="${g1(r*.52)}" ry="${g1(r*.4)}" fill="${PAD}"/><ellipse cx="${x}" cy="${g1(y+r*.24)}" rx="${g1(r*.42)}" ry="${g1(r*.3)}" fill="#C98E52" ${NS0}/><circle cx="${g1(x-r*.46)}" cy="${g1(y-r*.4)}" r="${g1(r*.17)}" fill="${PAD}"/><circle cx="${x}" cy="${g1(y-r*.6)}" r="${g1(r*.19)}" fill="${PAD}"/><circle cx="${g1(x+r*.46)}" cy="${g1(y-r*.4)}" r="${g1(r*.17)}" fill="${PAD}"/></g>`;
+        let st='';for(let i=0;i<9;i++){const x=150+i*12;st+=`<path d="M${x} 108q3 9 1 22" stroke="${i%2?O1:'#E8DCC4'}" stroke-width="5" fill="none" opacity="1"/>`}
+        CURIO.teddy=[364,248,
+          fur(190,152,108,86,O1,O3,HR)+
+          fur(84,140,24,54,O2,O3,HR,26)+fur(296,140,24,54,O2,O3,HR,-26)+
+          fur(190,166,66,56,O3,HL,'#C77A26',0,0,1)+
+          fur(112,196,56,36,O1,O3,HR,10)+fur(268,198,56,36,O1,O3,HR,-10)+
+          foot(58,198,40,-8)+foot(312,202,38,8)+
+                    `<g transform="translate(0 -10) rotate(3 190 70)">`+
+            fur(138,36,21,21,O1,O3,HR,0,9)+`<circle cx="138" cy="38" r="12" fill="#C8783A" ${NS0}/>`+
+            fur(242,36,21,21,O1,O3,HR,0,9)+`<circle cx="242" cy="38" r="12" fill="#C8783A" ${NS0}/>`+
+            fur(190,70,58,54,O1,O3,HR,0,22)+fur(190,64,40,32,O3,HL,'#C77A26',0,8,1)+
+            `<ellipse cx="190" cy="88" rx="30" ry="22" fill="${TAN}"/><path d="M160 90q4 -12 30 -12t30 12" fill="none" stroke="#F5D8A8" stroke-width="3" opacity=".7"/>`+
+            `<ellipse cx="190" cy="78" rx="12.5" ry="8.5" fill="#4A2A12"/><ellipse cx="186" cy="75.5" rx="4" ry="2.4" fill="#9A6A44" ${NS0}/>`+
+            `<path d="M190 86v8M178 97q12 7 24 0" fill="none" stroke="#4A2A12" stroke-width="2.4" stroke-linecap="round"/>`+
+            `<circle cx="166" cy="62" r="5" fill="#241208"/><circle cx="214" cy="62" r="5" fill="#241208"/><circle cx="167.6" cy="60.4" r="1.7" fill="#fff" ${NS0}/><circle cx="215.6" cy="60.4" r="1.7" fill="#fff" ${NS0}/>`+
+          `</g>`+
+          `<g transform="translate(0 8)">`+`<path d="M136 108Q190 136 244 108L248 128Q190 158 132 128Z" fill="#F2EAD8"/>`+
+            [0,1,2,3,4,5,6,7,8].map(i=>{const x=144+i*12.5,u=(x-190)/54;return `<path d="M${g1(x)} ${g1(108+14*(1-u*u)+1)}L${g1(x+1.5)} ${g1(128+15*(1-u*u)-1)}" stroke="${i%2?'#F2EAD8':'#E07A2A'}" stroke-width="6"/>`}).join('')+
+            `<path d="M206 138q9 12 6 34l20 -3q4 -20 -8 -36z" fill="#F2EAD8"/><path d="M210 150l18 -3M211 160l19 -3M212 169l17 -3" stroke="#E07A2A" stroke-width="5"/></g>`];
+      }
       CURIO.mazeBall=[136,140,`<path d="M44 136h48l-8 -16H52z" fill="#23232A"/><defs><clipPath id="lbpx"><circle cx="68" cy="64" r="58"/></clipPath></defs><circle cx="68" cy="64" r="60" fill="#DDEAF2" fill-opacity=".38" stroke="#7FA6BF" stroke-width="2"/><g clip-path="url(#lbpx)" fill="none" stroke-linecap="round" ${NS0}><path d="M8 100A60 60 0 0 0 128 100Z" fill="#E8B81C" fill-opacity=".9"/><path d="M40 30Q66 12 98 30Q76 46 54 38" stroke="#3BB273" stroke-width="6"/><path d="M20 84Q40 40 70 50T118 42" stroke="#F2C81C" stroke-width="7"/><path d="M24 58Q50 98 84 80T114 88" stroke="#2A7FD8" stroke-width="7"/><path d="M48 106Q70 92 94 106" stroke="#F0772B" stroke-width="6"/><path d="M68 20V58M90 38L60 72" stroke="#F4F4F2" stroke-width="4"/><circle cx="84" cy="78" r="4.5" fill="#C9CCD3" stroke="#6E7480" stroke-width="1"/></g><ellipse cx="68" cy="100" rx="52" ry="8" fill="none" stroke="#2A7FD8" stroke-width="5"/><path d="M28 42Q40 20 62 12" fill="none" stroke="#fff" stroke-width="4" stroke-linecap="round" opacity=".85"/>`];
       let weave='';for(let i=-12;i<16;i++)weave+=`<path d="M${i*9} 36l92 92M${i*9+92} 36l-92 92" stroke="#A88F5A" stroke-width="1.6"/>`;
       CURIO.basket=[70,130,`<rect x="26" y="4" width="18" height="9" rx="2" fill="#C9A227"/><rect x="28" y="12" width="14" height="30" fill="#4F6E38"/><path d="M20 46Q35 -8 50 46" fill="none" stroke="#C9B27A" stroke-width="5"/><defs><clipPath id="lbbt"><path d="M10 64Q10 42 28 40H42Q60 42 60 64V114Q60 126 48 126H22Q10 126 10 114Z"/></clipPath></defs><path d="M10 64Q10 42 28 40H42Q60 42 60 64V114Q60 126 48 126H22Q10 126 10 114Z" fill="#DCC890"/><g clip-path="url(#lbbt)" ${NS0}>${weave}<path d="M50 40Q62 44 60 126H52Z" fill="rgba(60,40,10,.2)"/></g><rect x="20" y="72" width="30" height="26" fill="#F2D21C"/><rect x="20" y="72" width="30" height="8" fill="#2F8F4E" ${NS0}/><path d="M24 86h22M24 91h16" stroke="#2A1608" stroke-width="1.2"/>`]}

diff --git a/CHANGELOG.md b/CHANGELOG.md
@@ -1,5 +1,15 @@
 # Changelog
 
+## 2.22.0
+
+- **Plot colours work for any colour.** A plot whose Ghost tag colour is dark now gets white writing automatically (it picks white or dark ink, whichever reads better), so a cobalt plot is no longer dark text on blue. Set the tag colours in Ghost to use it.
+- **The map at the end of a post:** the post's own picture is in the middle, a little bigger than the others. Each link gets a short solid green vine growing out of the middle along its dotted line. The flowers that bloomed over a node, the "This post" tooltip and the key under the map are gone. The hover card now opens beside its node, never over the middle picture.
+- **Boxes inside a plot** (Diecast, Lego, Library) each lean their own way, a little less than the cards, following the tilt setting, and wiggle when the mouse is over them.
+- **"Recently planted" fills the gap** under the shorter plot on wide screens; on narrow screens it stays below the plots.
+- **Smaller downloads:** the release now minifies the big script and the stylesheet (about 50 KB less on a first visit). The files in the repository stay readable.
+- **The Library's teddy is redrawn** from the real one: shaggy orange fur, tan muzzle and big nose, striped scarf, big foot pads with toe pads, and taller. The Shelf 1 picture is made again.
+- **Booster is bigger, calmer and one colour.** About 35% bigger. Every pose is pulled to the same brown and every frame to the same size (the sleeping cat was too small). She moves about 40% slower with longer fades between poses. The walk itself still has the old frames: its back legs do not step with the front ones, which needs a new painted sheet.
+
 ## 2.21.22
 
 - **Booster is painted now.** The drawn cat is replaced by the painted one: 65 frames of her (walking, standing, sitting from the front and the side, looking up and down, grooming, lying down, sleeping, waking, stretching, crouching, jumping, landing), played one after another with short fades between poses. Her paws now stay on the board as she walks, and she jumps from one bookcase to the next with her legs straight in the air.
